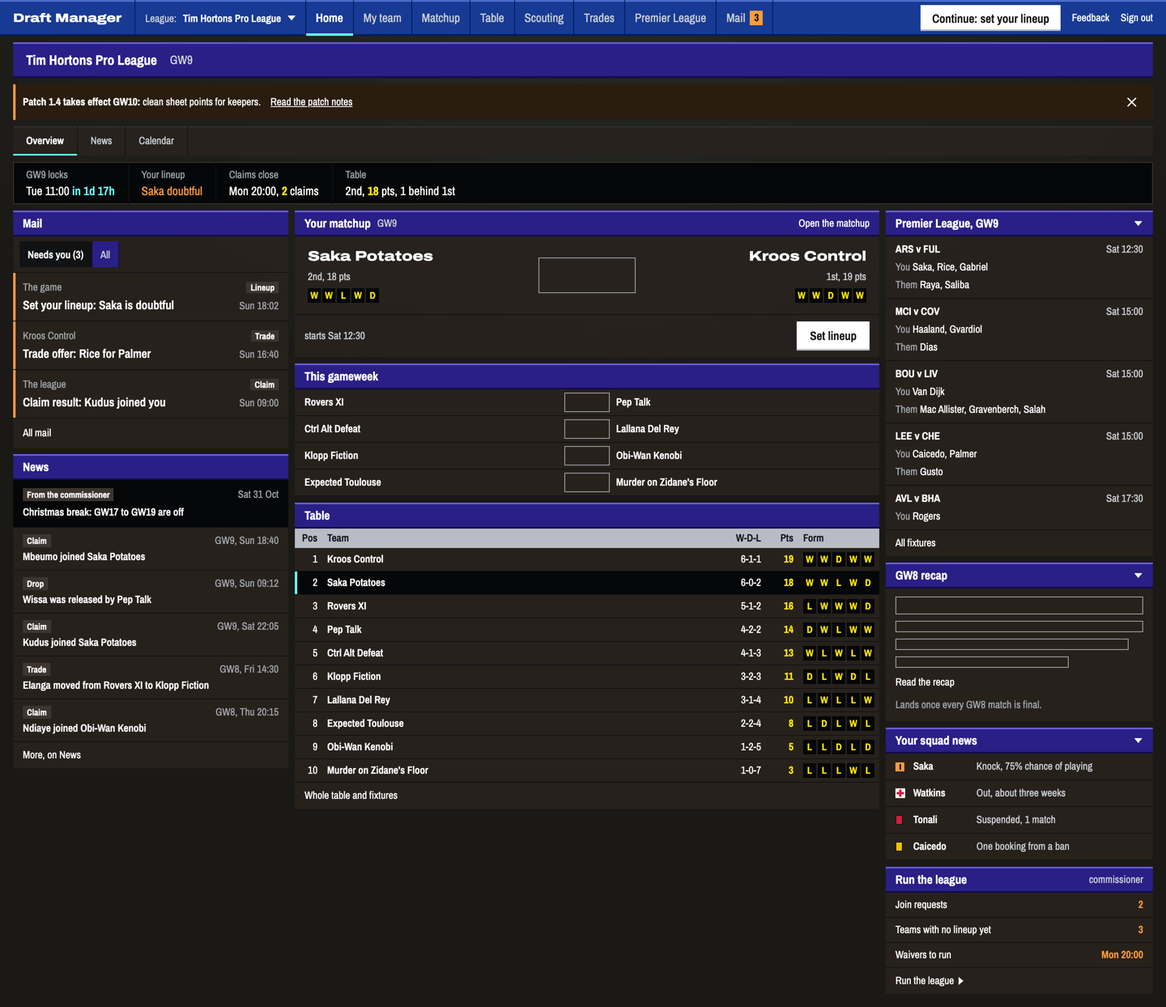
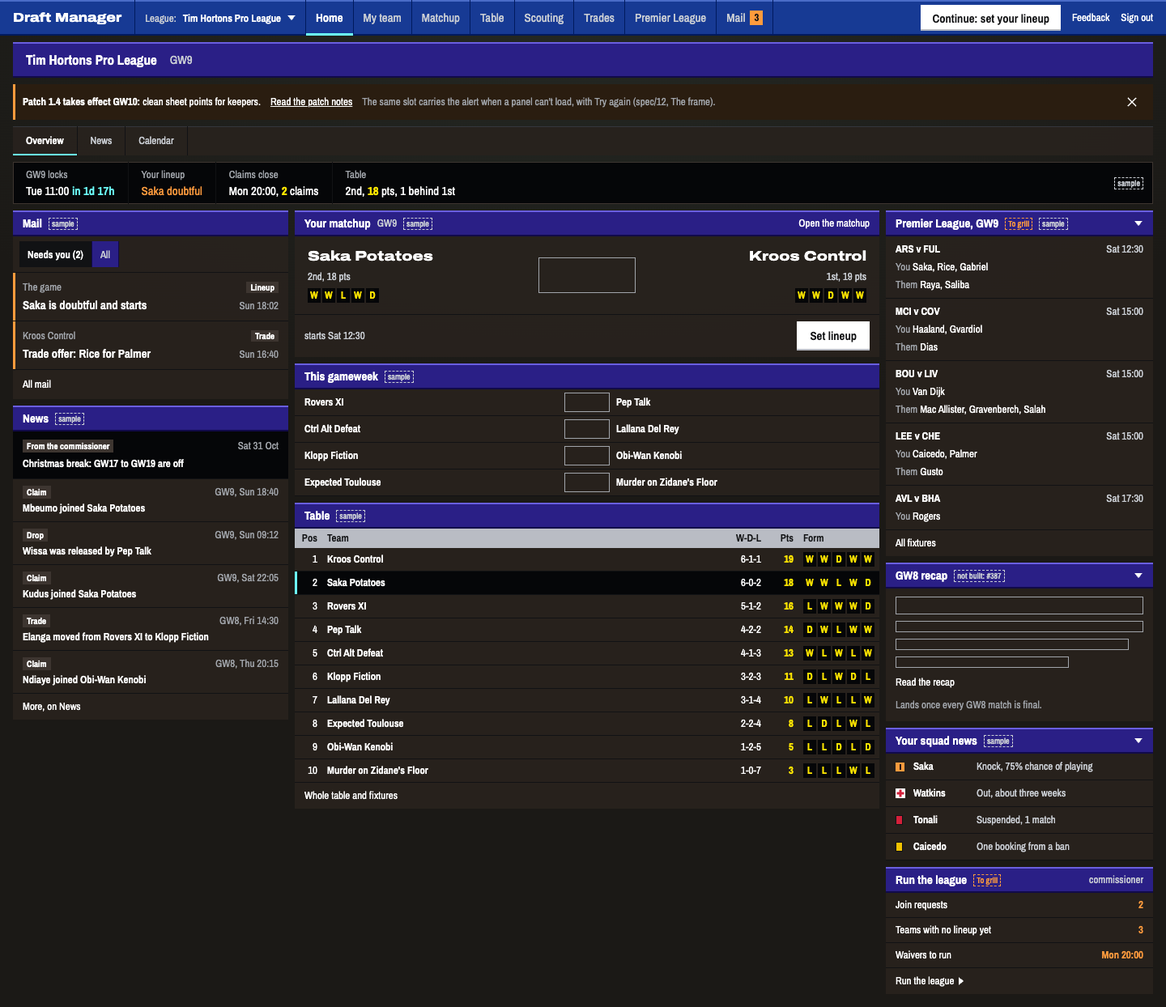
docs: Home's picture opens Mail on Needs you, with a doubtful starter as a letter (#2443)
Craig, 16 Nov 2026, "Go ahead" on the redrawn board. spec/12 S12.15 and
spec/16 S16.7 take his answers on #2443.

diff --git a/docs/design/approved/home/SP1-HomeE.dc.html b/docs/design/approved/home/SP1-HomeE.dc.html
@@ -1,0 +1,48 @@
+<!doctype html>
+<html lang="en">
+<head>
+<meta charset="utf-8">
+<title>League home E</title>
+<script src="./support.js"></script>
+</head>
+<body>
+<x-dc>
+<helmet>
+<link rel="stylesheet" href="https://fonts.googleapis.com/css2?family=Archivo+Narrow:wght@400;600;700&family=Archivo:wdth,wght@125,800&display=swap">
+<style>
+body{margin:0;background:#1b1916}
+a{color:#ffffff;text-decoration:none}a:hover{text-decoration:underline;text-decoration-color:#6bfdfa}
+button{font-family:inherit;border-radius:0;cursor:pointer}
+button:focus-visible,a:focus-visible,input:focus-visible{outline:2px solid #6bfdfa;outline-offset:2px}
+.disp{font-family:'Archivo','Archivo Narrow',sans-serif;font-weight:800;font-stretch:125%}
+.lnk{background:none;border:0;padding:0;color:#ffffff;font-size:13px;line-height:20px;text-align:left}
+.tag{display:inline-block;padding:0 3px;font-size:10px;line-height:13px;font-weight:600;border:1px dashed currentColor}
+.sq td{height:28px;padding:0 6px;white-space:nowrap;overflow:hidden;text-overflow:ellipsis}
+.sq th{height:24px;padding:0 6px;text-align:left;font-weight:600;color:#111214;background:#b9bcc4;white-space:nowrap}
+.box{height:36px;box-sizing:border-box;padding:0 8px;background:#050608;color:#ffffff;border:1px solid #caced4;box-shadow:inset 0 2px 0 #050608;font-family:inherit;font-size:15px}
+.act{height:36px;padding:0 16px;background:#ffffff;color:#111214;border:0;box-shadow:inset 0 2px 0 #ffffff,inset 0 -2px 0 #b9bcc4;font-size:15px;font-weight:600;display:inline-flex;align-items:center;gap:8px}
+.sec{height:32px;padding:0 12px;background:#2a1f86;color:#ffffff;border:1px solid #caced4;font-size:13px;display:inline-flex;align-items:center;gap:6px}
+</style>
+</helmet>
+<div style="min-height: 1200px; background-color: #1b1916; background-image: radial-gradient(ellipse 90% 60% at 50% 0%, rgba(70, 96, 84, 0.22), rgba(70, 96, 84, 0) 70%); font-family: 'Archivo Narrow', 'Arial Narrow', sans-serif; font-size: 13px; line-height: 20px; color: #ffffff; font-variant-numeric: tabular-nums">
+<header style="background: #173a94; box-shadow: inset 0 2px 0 #4a6cc8, inset 0 -2px 0 #001a5e; display: flex; flex-wrap: wrap; align-items: stretch; min-height: 44px; padding: 0 16px">
+  <div class="disp" style="display: flex; align-items: center; font-size: 15px; padding-right: 16px">Draft Manager</div>
+  <button style="display: flex; align-items: center; gap: 8px; background: none; border: 0; border-left: 1px solid #001a5e; border-right: 1px solid #001a5e; color: #ffffff; font-size: 13px; padding: 0 12px"><span style="color: #caced4">League:</span><span style="font-weight: 600">Tim Hortons Pro League</span><svg width="10" height="6" viewBox="0 0 10 6" aria-hidden="true"><path d="M0 0 L10 0 L5 6 Z" fill="#ffffff"></path></svg></button>
+  <nav aria-label="Main" style="display: flex; align-items: stretch"><a href="#" aria-current="page" style="display: flex; align-items: center; padding: 0 12px; color: #ffffff; font-weight: 600; box-shadow: inset 0 -3px 0 #6bfdfa; border-right: 1px solid #001a5e; font-size: 15px">Home</a><a href="#" style="display: flex; align-items: center; padding: 0 12px; color: #caced4; border-right: 1px solid #001a5e; font-size: 15px">My team</a><a href="#" style="display: flex; align-items: center; padding: 0 12px; color: #caced4; border-right: 1px solid #001a5e; font-size: 15px">Matchup</a><a href="#" style="display: flex; align-items: center; padding: 0 12px; color: #caced4; border-right: 1px solid #001a5e; font-size: 15px">Table</a><a href="#" style="display: flex; align-items: center; padding: 0 12px; color: #caced4; border-right: 1px solid #001a5e; font-size: 15px">Scouting</a><a href="#" style="display: flex; align-items: center; padding: 0 12px; color: #caced4; border-right: 1px solid #001a5e; font-size: 15px">Trades</a><a href="#" style="display: flex; align-items: center; padding: 0 12px; color: #caced4; border-right: 1px solid #001a5e; font-size: 15px">Premier League</a><a href="#" style="display: flex; align-items: center; gap: 6px; padding: 0 12px; color: #caced4; border-right: 1px solid #001a5e; font-size: 15px">Mail <span style="background: #ff9b3d; color: #111214; font-size: 13px; font-weight: 700; padding: 0 5px; line-height: 18px">3</span></a></nav>
+  <div style="margin-left: auto; display: flex; align-items: center; gap: 14px">
+    <button aria-label="Continue: set your lineup" style="height: 32px; padding: 0 14px; background: #ffffff; color: #111214; border: 0; box-shadow: inset 0 2px 0 #ffffff, inset 0 -2px 0 #b9bcc4; font-size: 15px; font-weight: 600">Continue: set your lineup</button>
+    <a href="#">Feedback</a>
+    <button class="lnk">Sign out</button>
+  </div>
+</header><main style="max-width: 1440px; margin: 0 auto; padding: 8px 16px 16px; box-sizing: border-box; display: flex; flex-direction: column; gap: 8px"><div style="background: #2a1f86; box-shadow: inset 0 2px 0 #6a5fe0, inset 0 -2px 0 #110a4a; display: flex; align-items: center; gap: 16px; padding: 4px 16px; min-height: 36px"><h1 style="margin: 0; font-size: 17px; line-height: 24px; font-weight: 700">Tim Hortons Pro League</h1><span style="color: #caced4; font-size: 15px">GW9</span></div><div role="status" style="display: flex; align-items: center; gap: 12px; padding: 8px 12px; background: #2a1d10; box-shadow: inset 3px 0 0 #ff9b3d"><span><span style="font-weight: 700">Patch 1.4 takes effect GW10:</span> clean sheet points for keepers.</span><a href="#" style="text-decoration: underline">Read the patch notes</a><sc-if value="{{ tags }}" hint-placeholder-val="{{ true }}"><span style="color: #a1a5ab">The same slot carries the alert when a panel can't load, with Try again (spec/12, The frame).</span></sc-if><button aria-label="Dismiss" style="margin-left: auto; width: 28px; height: 28px; background: none; border: 0; display: flex; align-items: center; justify-content: center"><svg width="12" height="12" viewBox="0 0 14 14" aria-hidden="true"><path d="M1 1 L13 13 M13 1 L1 13" stroke="#ffffff" stroke-width="2"></path></svg></button></div><div style="background: rgba(40, 34, 29, 0.9); box-shadow: inset 0 1px 0 #34363c"><nav aria-label="Section" style="display: flex; height: 36px"><a href="#" aria-current="page" style="display: flex; align-items: center; padding: 0 16px; font-weight: 600; box-shadow: inset 0 -2px 0 #6bfdfa; border-right: 1px solid #111214">Overview</a><a href="#"  style="display: flex; align-items: center; padding: 0 16px; color: #caced4; border-right: 1px solid #111214">News</a><a href="#"  style="display: flex; align-items: center; padding: 0 16px; color: #caced4; border-right: 1px solid #111214">Calendar</a></nav></div><div role="region" aria-label="This gameweek" style="display: flex; align-items: stretch; background: #050608; box-shadow: inset 0 0 0 1px #3d3530"><div style="display: flex; flex-direction: column; justify-content: center; padding: 6px 16px; border-right: 1px solid #111214"><span style="color: #a1a5ab">GW9 locks</span><span style="font-size: 15px">Tue 11:00 <span style="color: #6bfdfa; font-weight: 600">in 1d 17h</span></span></div><div style="display: flex; flex-direction: column; justify-content: center; padding: 6px 16px; border-right: 1px solid #111214"><span style="color: #a1a5ab">Your lineup</span><span style="font-size: 15px"><a href="#" style="color: #ff9b3d">Saka doubtful</a></span></div><div style="display: flex; flex-direction: column; justify-content: center; padding: 6px 16px; border-right: 1px solid #111214"><span style="color: #a1a5ab">Claims close</span><span style="font-size: 15px">Mon 20:00, <span style="color: #ffe600; font-weight: 700">2</span> claims</span></div><div style="display: flex; flex-direction: column; justify-content: center; padding: 6px 16px; border-right: 0"><span style="color: #a1a5ab">Table</span><span style="font-size: 15px">2nd, <span style="color: #ffe600; font-weight: 700">18</span> pts, 1 behind 1st</span></div><span style="margin-left: auto; display: flex; align-items: center; padding: 0 12px"><sc-if value="{{ tags }}" hint-placeholder-val="{{ true }}"><span class="tag" style="color: #caced4;">sample</span></sc-if></span></div><div style="display: grid; grid-template-columns: 340px minmax(0, 1fr) 330px; gap: 8px; align-items: start"><div style="min-width: 0; display: flex; flex-direction: column; gap: 8px"><section style="background: rgba(40, 34, 29, 0.9); display: flex; flex-direction: column"><div style="min-height: 32px; background: #2a1f86; box-shadow: inset 0 2px 0 #6a5fe0, inset 0 -2px 0 #110a4a; display: flex; align-items: center; gap: 8px; padding: 0 12px"><h2 style="margin: 0; font-size: 15px; font-weight: 700">Mail</h2><sc-if value="{{ tags }}" hint-placeholder-val="{{ true }}"><span class="tag" style="color: #caced4;">sample</span></sc-if></div><div role="tablist" style="display: flex; padding: 6px 8px; border-bottom: 1px solid #111214"><button role="tab" aria-selected="true" style="height: 32px; padding: 0 10px; border: 0; border-right: 1px solid #110a4a; font-size: 13px; background: #111214; color: #ffffff; font-weight: 600">Needs you (2)</button><button role="tab" aria-selected="false" style="height: 32px; padding: 0 10px; border: 0; border-right: 1px solid #110a4a; font-size: 13px; background: #2a1f86; color: #caced4; font-weight: 400">All</button></div><a href="#" style="display: flex; flex-direction: column; gap: 2px; padding: 8px 12px; border-bottom: 1px solid #111214; box-shadow: inset 3px 0 0 #ff9b3d"><span style="display: flex; align-items: center; gap: 8px"><span style="color: #a1a5ab">The game</span><span style="margin-left: auto"><span style="flex: none; padding: 0 5px; font-size: 11px; line-height: 16px; font-weight: 700; background: #3d3530; color: #ffffff">Lineup</span></span></span><span style="display: flex; align-items: baseline; gap: 8px"><span style="font-size: 15px; font-weight: 600">Saka is doubtful and starts</span><span style="margin-left: auto; color: #a1a5ab; flex: none">Sun 18:02</span></span></a><a href="#" style="display: flex; flex-direction: column; gap: 2px; padding: 8px 12px; border-bottom: 1px solid #111214; box-shadow: inset 3px 0 0 #ff9b3d"><span style="display: flex; align-items: center; gap: 8px"><span style="color: #a1a5ab">Kroos Control</span><span style="margin-left: auto"><span style="flex: none; padding: 0 5px; font-size: 11px; line-height: 16px; font-weight: 700; background: #3d3530; color: #ffffff">Trade</span></span></span><span style="display: flex; align-items: baseline; gap: 8px"><span style="font-size: 15px; font-weight: 600">Trade offer: Rice for Palmer</span><span style="margin-left: auto; color: #a1a5ab; flex: none">Sun 16:40</span></span></a><div style="padding: 8px 12px"><a href="#">All mail</a></div></section><section style="background: rgba(40, 34, 29, 0.9); display: flex; flex-direction: column"><div style="min-height: 32px; background: #2a1f86; box-shadow: inset 0 2px 0 #6a5fe0, inset 0 -2px 0 #110a4a; display: flex; align-items: center; gap: 8px; padding: 0 12px"><h2  style="margin: 0; font-size: 15px; line-height: 20px; font-weight: 700">News</h2><sc-if value="{{ tags }}" hint-placeholder-val="{{ true }}"><span class="tag" style="color: #caced4;">sample</span></sc-if></div><a href="#" style="display: flex; flex-direction: column; gap: 2px; padding: 8px 12px; border-bottom: 1px solid #111214; background: #050608"><span style="display: flex; gap: 8px; align-items: center"><span style="flex: none; padding: 0 5px; font-size: 11px; line-height: 16px; font-weight: 700; background: #3d3530; color: #ffffff">From the commissioner</span><span style="margin-left: auto; color: #a1a5ab">Sat 31 Oct</span></span><span style="font-weight: 600">Christmas break: GW17 to GW19 are off</span></a><div style="display: flex; flex-direction: column; padding: 6px 12px; border-bottom: 1px solid #111214"><span style="display: flex; gap: 8px; align-items: center"><span style="flex: none; padding: 0 5px; font-size: 11px; line-height: 16px; font-weight: 700; background: #3d3530; color: #ffffff">Claim</span><span style="margin-left: auto; color: #a1a5ab">GW9, Sun 18:40</span></span><span style="font-weight: 600">Mbeumo joined Saka Potatoes</span></div><div style="display: flex; flex-direction: column; padding: 6px 12px; border-bottom: 1px solid #111214"><span style="display: flex; gap: 8px; align-items: center"><span style="flex: none; padding: 0 5px; font-size: 11px; line-height: 16px; font-weight: 700; background: #3d3530; color: #ffffff">Drop</span><span style="margin-left: auto; color: #a1a5ab">GW9, Sun 09:12</span></span><span style="font-weight: 600">Wissa was released by Pep Talk</span></div><div style="display: flex; flex-direction: column; padding: 6px 12px; border-bottom: 1px solid #111214"><span style="display: flex; gap: 8px; align-items: center"><span style="flex: none; padding: 0 5px; font-size: 11px; line-height: 16px; font-weight: 700; background: #3d3530; color: #ffffff">Claim</span><span style="margin-left: auto; color: #a1a5ab">GW9, Sat 22:05</span></span><span style="font-weight: 600">Kudus joined Saka Potatoes</span></div><div style="display: flex; flex-direction: column; padding: 6px 12px; border-bottom: 1px solid #111214"><span style="display: flex; gap: 8px; align-items: center"><span style="flex: none; padding: 0 5px; font-size: 11px; line-height: 16px; font-weight: 700; background: #3d3530; color: #ffffff">Trade</span><span style="margin-left: auto; color: #a1a5ab">GW8, Fri 14:30</span></span><span style="font-weight: 600">Elanga moved from Rovers XI to Klopp Fiction</span></div><div style="display: flex; flex-direction: column; padding: 6px 12px; border-bottom: 1px solid #111214"><span style="display: flex; gap: 8px; align-items: center"><span style="flex: none; padding: 0 5px; font-size: 11px; line-height: 16px; font-weight: 700; background: #3d3530; color: #ffffff">Claim</span><span style="margin-left: auto; color: #a1a5ab">GW8, Thu 20:15</span></span><span style="font-weight: 600">Ndiaye joined Obi-Wan Kenobi</span></div><div style="padding: 6px 12px"><a href="#">More, on News</a></div></section></div><div style="min-width: 0; display: flex; flex-direction: column; gap: 8px"><section style="background: rgba(40, 34, 29, 0.9); display: flex; flex-direction: column;"><div style="min-height: 32px; background: #2a1f86; box-shadow: inset 0 2px 0 #6a5fe0, inset 0 -2px 0 #110a4a; display: flex; align-items: center; gap: 8px; padding: 0 12px"><h2  style="margin: 0; font-size: 15px; line-height: 20px; font-weight: 700">Your matchup</h2><span style="color: #caced4">GW9</span><sc-if value="{{ tags }}" hint-placeholder-val="{{ true }}"><span class="tag" style="color: #caced4;">sample</span></sc-if><a href="#" style="margin-left: auto">Open the matchup</a></div><div style="display: grid; grid-template-columns: minmax(0, 1fr) 120px minmax(0, 1fr); gap: 16px; align-items: center; padding: 14px 16px"><div style="display: flex; flex-direction: column; gap: 4px; align-items: flex-start"><a href="#" class="disp" style="font-size: 17px; line-height: 22px">Saka Potatoes</a><span style="color: #caced4">2nd, 18 pts</span><span style="display: flex; gap: 2px"><span style="width: 16px; height: 18px; text-align: center; background: #050608; color: #ffe600; font-weight: 700; font-size: 12px; line-height: 18px">W</span><span style="width: 16px; height: 18px; text-align: center; background: #050608; color: #ffe600; font-weight: 700; font-size: 12px; line-height: 18px">W</span><span style="width: 16px; height: 18px; text-align: center; background: #050608; color: #ffe600; font-weight: 700; font-size: 12px; line-height: 18px">L</span><span style="width: 16px; height: 18px; text-align: center; background: #050608; color: #ffe600; font-weight: 700; font-size: 12px; line-height: 18px">W</span><span style="width: 16px; height: 18px; text-align: center; background: #050608; color: #ffe600; font-weight: 700; font-size: 12px; line-height: 18px">D</span></span></div><span role="img" aria-label="Score: not started" style="width: 120px; height: 44px; box-sizing: border-box; border: 1px solid #a1a5ab"></span><div style="display: flex; flex-direction: column; gap: 4px; align-items: flex-end"><a href="#" class="disp" style="font-size: 17px; line-height: 22px">Kroos Control</a><span style="color: #caced4">1st, 19 pts</span><span style="display: flex; gap: 2px"><span style="width: 16px; height: 18px; text-align: center; background: #050608; color: #ffe600; font-weight: 700; font-size: 12px; line-height: 18px">W</span><span style="width: 16px; height: 18px; text-align: center; background: #050608; color: #ffe600; font-weight: 700; font-size: 12px; line-height: 18px">W</span><span style="width: 16px; height: 18px; text-align: center; background: #050608; color: #ffe600; font-weight: 700; font-size: 12px; line-height: 18px">D</span><span style="width: 16px; height: 18px; text-align: center; background: #050608; color: #ffe600; font-weight: 700; font-size: 12px; line-height: 18px">W</span><span style="width: 16px; height: 18px; text-align: center; background: #050608; color: #ffe600; font-weight: 700; font-size: 12px; line-height: 18px">W</span></span></div></div><div style="display: flex; align-items: center; gap: 12px; padding: 8px 12px; border-top: 1px solid #111214"><span style="color: #caced4">starts Sat 12:30</span><a href="#" class="act" style="margin-left: auto">Set lineup</a></div></section><section style="background: rgba(40, 34, 29, 0.9); display: flex; flex-direction: column;"><div style="min-height: 32px; background: #2a1f86; box-shadow: inset 0 2px 0 #6a5fe0, inset 0 -2px 0 #110a4a; display: flex; align-items: center; gap: 8px; padding: 0 12px"><h2  style="margin: 0; font-size: 15px; line-height: 20px; font-weight: 700">This gameweek</h2><sc-if value="{{ tags }}" hint-placeholder-val="{{ true }}"><span class="tag" style="color: #caced4;">sample</span></sc-if></div><ul style="list-style: none; margin: 0; padding: 0"><li><a href="#" style="display: grid; grid-template-columns: minmax(0, 1fr) 56px minmax(0, 1fr); gap: 8px; align-items: center; min-height: 32px; padding: 0 12px; border-bottom: 1px solid #111214"><span style="font-weight: 600">Rovers XI</span><span role="img" aria-label="Not started" style="width: 56px; height: 24px; box-sizing: border-box; border: 1px solid #a1a5ab"></span><span style="font-weight: 600">Pep Talk</span></a></li><li><a href="#" style="display: grid; grid-template-columns: minmax(0, 1fr) 56px minmax(0, 1fr); gap: 8px; align-items: center; min-height: 32px; padding: 0 12px; border-bottom: 1px solid #111214"><span style="font-weight: 600">Ctrl Alt Defeat</span><span role="img" aria-label="Not started" style="width: 56px; height: 24px; box-sizing: border-box; border: 1px solid #a1a5ab"></span><span style="font-weight: 600">Lallana Del Rey</span></a></li><li><a href="#" style="display: grid; grid-template-columns: minmax(0, 1fr) 56px minmax(0, 1fr); gap: 8px; align-items: center; min-height: 32px; padding: 0 12px; border-bottom: 1px solid #111214"><span style="font-weight: 600">Klopp Fiction</span><span role="img" aria-label="Not started" style="width: 56px; height: 24px; box-sizing: border-box; border: 1px solid #a1a5ab"></span><span style="font-weight: 600">Obi-Wan Kenobi</span></a></li><li><a href="#" style="display: grid; grid-template-columns: minmax(0, 1fr) 56px minmax(0, 1fr); gap: 8px; align-items: center; min-height: 32px; padding: 0 12px; border-bottom: 1px solid #111214"><span style="font-weight: 600">Expected Toulouse</span><span role="img" aria-label="Not started" style="width: 56px; height: 24px; box-sizing: border-box; border: 1px solid #a1a5ab"></span><span style="font-weight: 600">Murder on Zidane's Floor</span></a></li></ul></section><section style="background: rgba(40, 34, 29, 0.9); display: flex; flex-direction: column;"><div style="min-height: 32px; background: #2a1f86; box-shadow: inset 0 2px 0 #6a5fe0, inset 0 -2px 0 #110a4a; display: flex; align-items: center; gap: 8px; padding: 0 12px"><h2  style="margin: 0; font-size: 15px; line-height: 20px; font-weight: 700">Table</h2><sc-if value="{{ tags }}" hint-placeholder-val="{{ true }}"><span class="tag" style="color: #caced4;">sample</span></sc-if></div><table class="sq" style="width: 100%; border-collapse: collapse; table-layout: fixed"><colgroup><col style="width: 34px"><col><col style="width: 60px"><col style="width: 40px"><col style="width: 100px"></colgroup><thead><tr><th style="text-align: right">Pos</th><th>Team</th><th style="text-align: right">W-D-L</th><th style="text-align: right">Pts</th><th>Form</th></tr></thead><tbody><tr style="border-bottom: 1px solid #111214; box-shadow: none; background: transparent"><td style="text-align: right">1</td><td><a href="#" style="font-weight: 600">Kroos Control</a></td><td style="text-align: right">6-1-1</td><td style="text-align: right; color: #ffe600; font-weight: 700">19</td><td><span style="display: flex; gap: 2px"><span style="width: 16px; height: 18px; text-align: center; background: #050608; color: #ffe600; font-weight: 700; font-size: 12px; line-height: 18px">W</span><span style="width: 16px; height: 18px; text-align: center; background: #050608; color: #ffe600; font-weight: 700; font-size: 12px; line-height: 18px">W</span><span style="width: 16px; height: 18px; text-align: center; background: #050608; color: #ffe600; font-weight: 700; font-size: 12px; line-height: 18px">D</span><span style="width: 16px; height: 18px; text-align: center; background: #050608; color: #ffe600; font-weight: 700; font-size: 12px; line-height: 18px">W</span><span style="width: 16px; height: 18px; text-align: center; background: #050608; color: #ffe600; font-weight: 700; font-size: 12px; line-height: 18px">W</span></span></td></tr><tr style="border-bottom: 1px solid #111214; box-shadow: inset 3px 0 0 #6bfdfa; background: #050608"><td style="text-align: right">2</td><td><a href="#" style="font-weight: 600">Saka Potatoes</a></td><td style="text-align: right">6-0-2</td><td style="text-align: right; color: #ffe600; font-weight: 700">18</td><td><span style="display: flex; gap: 2px"><span style="width: 16px; height: 18px; text-align: center; background: #050608; color: #ffe600; font-weight: 700; font-size: 12px; line-height: 18px">W</span><span style="width: 16px; height: 18px; text-align: center; background: #050608; color: #ffe600; font-weight: 700; font-size: 12px; line-height: 18px">W</span><span style="width: 16px; height: 18px; text-align: center; background: #050608; color: #ffe600; font-weight: 700; font-size: 12px; line-height: 18px">L</span><span style="width: 16px; height: 18px; text-align: center; background: #050608; color: #ffe600; font-weight: 700; font-size: 12px; line-height: 18px">W</span><span style="width: 16px; height: 18px; text-align: center; background: #050608; color: #ffe600; font-weight: 700; font-size: 12px; line-height: 18px">D</span></span></td></tr><tr style="border-bottom: 1px solid #111214; box-shadow: none; background: transparent"><td style="text-align: right">3</td><td><a href="#" style="font-weight: 600">Rovers XI</a></td><td style="text-align: right">5-1-2</td><td style="text-align: right; color: #ffe600; font-weight: 700">16</td><td><span style="display: flex; gap: 2px"><span style="width: 16px; height: 18px; text-align: center; background: #050608; color: #ffe600; font-weight: 700; font-size: 12px; line-height: 18px">L</span><span style="width: 16px; height: 18px; text-align: center; background: #050608; color: #ffe600; font-weight: 700; font-size: 12px; line-height: 18px">W</span><span style="width: 16px; height: 18px; text-align: center; background: #050608; color: #ffe600; font-weight: 700; font-size: 12px; line-height: 18px">W</span><span style="width: 16px; height: 18px; text-align: center; background: #050608; color: #ffe600; font-weight: 700; font-size: 12px; line-height: 18px">W</span><span style="width: 16px; height: 18px; text-align: center; background: #050608; color: #ffe600; font-weight: 700; font-size: 12px; line-height: 18px">D</span></span></td></tr><tr style="border-bottom: 1px solid #111214; box-shadow: none; background: transparent"><td style="text-align: right">4</td><td><a href="#" style="font-weight: 600">Pep Talk</a></td><td style="text-align: right">4-2-2</td><td style="text-align: right; color: #ffe600; font-weight: 700">14</td><td><span style="display: flex; gap: 2px"><span style="width: 16px; height: 18px; text-align: center; background: #050608; color: #ffe600; font-weight: 700; font-size: 12px; line-height: 18px">D</span><span style="width: 16px; height: 18px; text-align: center; background: #050608; color: #ffe600; font-weight: 700; font-size: 12px; line-height: 18px">W</span><span style="width: 16px; height: 18px; text-align: center; background: #050608; color: #ffe600; font-weight: 700; font-size: 12px; line-height: 18px">L</span><span style="width: 16px; height: 18px; text-align: center; background: #050608; color: #ffe600; font-weight: 700; font-size: 12px; line-height: 18px">W</span><span style="width: 16px; height: 18px; text-align: center; background: #050608; color: #ffe600; font-weight: 700; font-size: 12px; line-height: 18px">W</span></span></td></tr><tr style="border-bottom: 1px solid #111214; box-shadow: none; background: transparent"><td style="text-align: right">5</td><td><a href="#" style="font-weight: 600">Ctrl Alt Defeat</a></td><td style="text-align: right">4-1-3</td><td style="text-align: right; color: #ffe600; font-weight: 700">13</td><td><span style="display: flex; gap: 2px"><span style="width: 16px; height: 18px; text-align: center; background: #050608; color: #ffe600; font-weight: 700; font-size: 12px; line-height: 18px">W</span><span style="width: 16px; height: 18px; text-align: center; background: #050608; color: #ffe600; font-weight: 700; font-size: 12px; line-height: 18px">L</span><span style="width: 16px; height: 18px; text-align: center; background: #050608; color: #ffe600; font-weight: 700; font-size: 12px; line-height: 18px">W</span><span style="width: 16px; height: 18px; text-align: center; background: #050608; color: #ffe600; font-weight: 700; font-size: 12px; line-height: 18px">L</span><span style="width: 16px; height: 18px; text-align: center; background: #050608; color: #ffe600; font-weight: 700; font-size: 12px; line-height: 18px">W</span></span></td></tr><tr style="border-bottom: 1px solid #111214; box-shadow: none; background: transparent"><td style="text-align: right">6</td><td><a href="#" style="font-weight: 600">Klopp Fiction</a></td><td style="text-align: right">3-2-3</td><td style="text-align: right; color: #ffe600; font-weight: 700">11</td><td><span style="display: flex; gap: 2px"><span style="width: 16px; height: 18px; text-align: center; background: #050608; color: #ffe600; font-weight: 700; font-size: 12px; line-height: 18px">D</span><span style="width: 16px; height: 18px; text-align: center; background: #050608; color: #ffe600; font-weight: 700; font-size: 12px; line-height: 18px">L</span><span style="width: 16px; height: 18px; text-align: center; background: #050608; color: #ffe600; font-weight: 700; font-size: 12px; line-height: 18px">W</span><span style="width: 16px; height: 18px; text-align: center; background: #050608; color: #ffe600; font-weight: 700; font-size: 12px; line-height: 18px">D</span><span style="width: 16px; height: 18px; text-align: center; background: #050608; color: #ffe600; font-weight: 700; font-size: 12px; line-height: 18px">L</span></span></td></tr><tr style="border-bottom: 1px solid #111214; box-shadow: none; background: transparent"><td style="text-align: right">7</td><td><a href="#" style="font-weight: 600">Lallana Del Rey</a></td><td style="text-align: right">3-1-4</td><td style="text-align: right; color: #ffe600; font-weight: 700">10</td><td><span style="display: flex; gap: 2px"><span style="width: 16px; height: 18px; text-align: center; background: #050608; color: #ffe600; font-weight: 700; font-size: 12px; line-height: 18px">L</span><span style="width: 16px; height: 18px; text-align: center; background: #050608; color: #ffe600; font-weight: 700; font-size: 12px; line-height: 18px">W</span><span style="width: 16px; height: 18px; text-align: center; background: #050608; color: #ffe600; font-weight: 700; font-size: 12px; line-height: 18px">L</span><span style="width: 16px; height: 18px; text-align: center; background: #050608; color: #ffe600; font-weight: 700; font-size: 12px; line-height: 18px">L</span><span style="width: 16px; height: 18px; text-align: center; background: #050608; color: #ffe600; font-weight: 700; font-size: 12px; line-height: 18px">W</span></span></td></tr><tr style="border-bottom: 1px solid #111214; box-shadow: none; background: transparent"><td style="text-align: right">8</td><td><a href="#" style="font-weight: 600">Expected Toulouse</a></td><td style="text-align: right">2-2-4</td><td style="text-align: right; color: #ffe600; font-weight: 700">8</td><td><span style="display: flex; gap: 2px"><span style="width: 16px; height: 18px; text-align: center; background: #050608; color: #ffe600; font-weight: 700; font-size: 12px; line-height: 18px">L</span><span style="width: 16px; height: 18px; text-align: center; background: #050608; color: #ffe600; font-weight: 700; font-size: 12px; line-height: 18px">D</span><span style="width: 16px; height: 18px; text-align: center; background: #050608; color: #ffe600; font-weight: 700; font-size: 12px; line-height: 18px">L</span><span style="width: 16px; height: 18px; text-align: center; background: #050608; color: #ffe600; font-weight: 700; font-size: 12px; line-height: 18px">W</span><span style="width: 16px; height: 18px; text-align: center; background: #050608; color: #ffe600; font-weight: 700; font-size: 12px; line-height: 18px">L</span></span></td></tr><tr style="border-bottom: 1px solid #111214; box-shadow: none; background: transparent"><td style="text-align: right">9</td><td><a href="#" style="font-weight: 600">Obi-Wan Kenobi</a></td><td style="text-align: right">1-2-5</td><td style="text-align: right; color: #ffe600; font-weight: 700">5</td><td><span style="display: flex; gap: 2px"><span style="width: 16px; height: 18px; text-align: center; background: #050608; color: #ffe600; font-weight: 700; font-size: 12px; line-height: 18px">L</span><span style="width: 16px; height: 18px; text-align: center; background: #050608; color: #ffe600; font-weight: 700; font-size: 12px; line-height: 18px">L</span><span style="width: 16px; height: 18px; text-align: center; background: #050608; color: #ffe600; font-weight: 700; font-size: 12px; line-height: 18px">D</span><span style="width: 16px; height: 18px; text-align: center; background: #050608; color: #ffe600; font-weight: 700; font-size: 12px; line-height: 18px">L</span><span style="width: 16px; height: 18px; text-align: center; background: #050608; color: #ffe600; font-weight: 700; font-size: 12px; line-height: 18px">D</span></span></td></tr><tr style="border-bottom: 1px solid #111214; box-shadow: none; background: transparent"><td style="text-align: right">10</td><td><a href="#" style="font-weight: 600">Murder on Zidane's Floor</a></td><td style="text-align: right">1-0-7</td><td style="text-align: right; color: #ffe600; font-weight: 700">3</td><td><span style="display: flex; gap: 2px"><span style="width: 16px; height: 18px; text-align: center; background: #050608; color: #ffe600; font-weight: 700; font-size: 12px; line-height: 18px">L</span><span style="width: 16px; height: 18px; text-align: center; background: #050608; color: #ffe600; font-weight: 700; font-size: 12px; line-height: 18px">L</span><span style="width: 16px; height: 18px; text-align: center; background: #050608; color: #ffe600; font-weight: 700; font-size: 12px; line-height: 18px">L</span><span style="width: 16px; height: 18px; text-align: center; background: #050608; color: #ffe600; font-weight: 700; font-size: 12px; line-height: 18px">W</span><span style="width: 16px; height: 18px; text-align: center; background: #050608; color: #ffe600; font-weight: 700; font-size: 12px; line-height: 18px">L</span></span></td></tr></tbody></table><div style="padding: 6px 12px"><a href="#">Whole table and fixtures</a></div></section></div><div style="min-width: 0; display: flex; flex-direction: column; gap: 8px"><section style="background: rgba(40, 34, 29, 0.9); display: flex; flex-direction: column"><div style="min-height: 32px; background: #2a1f86; box-shadow: inset 0 2px 0 #6a5fe0, inset 0 -2px 0 #110a4a; display: flex; align-items: center; gap: 8px; padding: 0 4px 0 12px"><h2 style="margin: 0; font-size: 15px; line-height: 20px; font-weight: 700">Premier League, GW9</h2><sc-if value="{{ tags }}" hint-placeholder-val="{{ true }}"><span class="tag" style="color: #ff9b3d;">To grill</span></sc-if><sc-if value="{{ tags }}" hint-placeholder-val="{{ true }}"><span class="tag" style="color: #caced4;">sample</span></sc-if><button aria-label="Collapse" aria-expanded="true" style="margin-left: auto; width: 28px; height: 28px; background: none; border: 0; display: flex; align-items: center; justify-content: center"><svg width="10" height="6" viewBox="0 0 10 6" aria-hidden="true"><path d="M0 0 L10 0 L5 6 Z" fill="#ffffff"></path></svg></button></div><ul style="list-style: none; margin: 0; padding: 0"><li><a href="#" style="display: flex; flex-direction: column; gap: 2px; padding: 6px 12px; border-bottom: 1px solid #111214"><span style="display: flex; align-items: baseline; gap: 8px"><span style="font-weight: 700">ARS v FUL</span><span style="margin-left: auto"><span style="color: #caced4">Sat 12:30</span></span></span><span><span style="color: #a1a5ab">You</span> Saka, Rice, Gabriel</span><span><span style="color: #a1a5ab">Them</span> Raya, Saliba</span></a></li><li><a href="#" style="display: flex; flex-direction: column; gap: 2px; padding: 6px 12px; border-bottom: 1px solid #111214"><span style="display: flex; align-items: baseline; gap: 8px"><span style="font-weight: 700">MCI v COV</span><span style="margin-left: auto"><span style="color: #caced4">Sat 15:00</span></span></span><span><span style="color: #a1a5ab">You</span> Haaland, Gvardiol</span><span><span style="color: #a1a5ab">Them</span> Dias</span></a></li><li><a href="#" style="display: flex; flex-direction: column; gap: 2px; padding: 6px 12px; border-bottom: 1px solid #111214"><span style="display: flex; align-items: baseline; gap: 8px"><span style="font-weight: 700">BOU v LIV</span><span style="margin-left: auto"><span style="color: #caced4">Sat 15:00</span></span></span><span><span style="color: #a1a5ab">You</span> Van Dijk</span><span><span style="color: #a1a5ab">Them</span> Mac Allister, Gravenberch, Salah</span></a></li><li><a href="#" style="display: flex; flex-direction: column; gap: 2px; padding: 6px 12px; border-bottom: 1px solid #111214"><span style="display: flex; align-items: baseline; gap: 8px"><span style="font-weight: 700">LEE v CHE</span><span style="margin-left: auto"><span style="color: #caced4">Sat 15:00</span></span></span><span><span style="color: #a1a5ab">You</span> Caicedo, Palmer</span><span><span style="color: #a1a5ab">Them</span> Gusto</span></a></li><li><a href="#" style="display: flex; flex-direction: column; gap: 2px; padding: 6px 12px; border-bottom: 1px solid #111214"><span style="display: flex; align-items: baseline; gap: 8px"><span style="font-weight: 700">AVL v BHA</span><span style="margin-left: auto"><span style="color: #caced4">Sat 17:30</span></span></span><span><span style="color: #a1a5ab">You</span> Rogers</span></a></li></ul><div style="padding: 6px 12px"><a href="#">All fixtures</a></div></section><section style="background: rgba(40, 34, 29, 0.9); display: flex; flex-direction: column"><div style="min-height: 32px; background: #2a1f86; box-shadow: inset 0 2px 0 #6a5fe0, inset 0 -2px 0 #110a4a; display: flex; align-items: center; gap: 8px; padding: 0 4px 0 12px"><h2 style="margin: 0; font-size: 15px; line-height: 20px; font-weight: 700">GW8 recap</h2><sc-if value="{{ tags }}" hint-placeholder-val="{{ true }}"><span class="tag" style="color: #caced4;">not built: #387</span></sc-if><button aria-label="Collapse" aria-expanded="true" style="margin-left: auto; width: 28px; height: 28px; background: none; border: 0; display: flex; align-items: center; justify-content: center"><svg width="10" height="6" viewBox="0 0 10 6" aria-hidden="true"><path d="M0 0 L10 0 L5 6 Z" fill="#ffffff"></path></svg></button></div><div style="padding: 10px 12px; display: flex; flex-direction: column; gap: 8px"><span role="img" aria-label="GW8 recap headline: not built yet (#387)" style="display: block; height: 22px; box-sizing: border-box; border: 1px solid #a1a5ab"></span><span aria-hidden="true" style="display: block; width: 100%; height: 14px; box-sizing: border-box; border: 1px solid #a1a5ab"></span><span aria-hidden="true" style="display: block; width: 94%; height: 14px; box-sizing: border-box; border: 1px solid #a1a5ab"></span><span aria-hidden="true" style="display: block; width: 70%; height: 14px; box-sizing: border-box; border: 1px solid #a1a5ab"></span><a href="#">Read the recap</a><span style="color: #a1a5ab">Lands once every GW8 match is final.</span></div></section><section style="background: rgba(40, 34, 29, 0.9); display: flex; flex-direction: column"><div style="min-height: 32px; background: #2a1f86; box-shadow: inset 0 2px 0 #6a5fe0, inset 0 -2px 0 #110a4a; display: flex; align-items: center; gap: 8px; padding: 0 4px 0 12px"><h2 style="margin: 0; font-size: 15px; line-height: 20px; font-weight: 700">Your squad news</h2><sc-if value="{{ tags }}" hint-placeholder-val="{{ true }}"><span class="tag" style="color: #caced4;">sample</span></sc-if><button aria-label="Collapse" aria-expanded="true" style="margin-left: auto; width: 28px; height: 28px; background: none; border: 0; display: flex; align-items: center; justify-content: center"><svg width="10" height="6" viewBox="0 0 10 6" aria-hidden="true"><path d="M0 0 L10 0 L5 6 Z" fill="#ffffff"></path></svg></button></div><a href="#" style="display: grid; grid-template-columns: 14px 70px minmax(0, 1fr); gap: 8px; align-items: center; min-height: 32px; padding: 0 12px; border-bottom: 1px solid #111214"><span role="img" aria-label="Doubt" style="width: 11px; height: 11px; background: #ff9b3d; display: flex; align-items: center; justify-content: center"><span style="width: 2px; height: 7px; background: #111214"></span></span><span style="font-weight: 600">Saka</span><span style="color: #caced4">Knock, 75% chance of playing</span></a><a href="#" style="display: grid; grid-template-columns: 14px 70px minmax(0, 1fr); gap: 8px; align-items: center; min-height: 32px; padding: 0 12px; border-bottom: 1px solid #111214"><svg role="img" aria-label="Injured" width="12" height="12" viewBox="0 0 12 12"><rect width="12" height="12" fill="#ffffff"></rect><path d="M4.5 1.5 H7.5 V4.5 H10.5 V7.5 H7.5 V10.5 H4.5 V7.5 H1.5 V4.5 H4.5 Z" fill="#d4203a"></path></svg><span style="font-weight: 600">Watkins</span><span style="color: #caced4">Out, about three weeks</span></a><a href="#" style="display: grid; grid-template-columns: 14px 70px minmax(0, 1fr); gap: 8px; align-items: center; min-height: 32px; padding: 0 12px; border-bottom: 1px solid #111214"><svg role="img" aria-label="Suspended" width="9" height="12" viewBox="0 0 9 12"><rect x="0.5" y="0.5" width="8" height="11" fill="#d4203a" stroke="#111214"></rect></svg><span style="font-weight: 600">Tonali</span><span style="color: #caced4">Suspended, 1 match</span></a><a href="#" style="display: grid; grid-template-columns: 14px 70px minmax(0, 1fr); gap: 8px; align-items: center; min-height: 32px; padding: 0 12px; border-bottom: 1px solid #111214"><svg role="img" aria-label="One booking from a ban" width="9" height="12" viewBox="0 0 9 12"><rect x="0.5" y="0.5" width="8" height="11" fill="#f2c200" stroke="#111214"></rect></svg><span style="font-weight: 600">Caicedo</span><span style="color: #caced4">One booking from a ban</span></a></section><section style="background: rgba(40, 34, 29, 0.9)"><div style="min-height: 32px; background: #2a1f86; box-shadow: inset 0 2px 0 #6a5fe0, inset 0 -2px 0 #110a4a; display: flex; align-items: center; gap: 8px; padding: 0 12px"><h2  style="margin: 0; font-size: 15px; line-height: 20px; font-weight: 700">Run the league</h2><sc-if value="{{ tags }}" hint-placeholder-val="{{ true }}"><span class="tag" style="color: #ff9b3d;">To grill</span></sc-if><span style='margin-left: auto; color: #caced4'>commissioner</span></div><a href="#" style="display: flex; align-items: center; min-height: 30px; padding: 0 12px; border-bottom: 1px solid #111214"><span>Join requests</span><span style="margin-left: auto; color: #ff9b3d; font-weight: 600">2</span></a><a href="#" style="display: flex; align-items: center; min-height: 30px; padding: 0 12px; border-bottom: 1px solid #111214"><span>Teams with no lineup yet</span><span style="margin-left: auto; color: #ff9b3d; font-weight: 600">3</span></a><a href="#" style="display: flex; align-items: center; min-height: 30px; padding: 0 12px; border-bottom: 1px solid #111214"><span>Waivers to run</span><span style="margin-left: auto; color: #ff9b3d; font-weight: 600">Mon 20:00</span></a><a href="#" style="display: flex; align-items: center; gap: 6px; min-height: 32px; padding: 0 12px">Run the league<svg width="6" height="10" viewBox="0 0 6 10" aria-hidden="true"><path d="M0 0 L6 5 L0 10 Z" fill="#ffffff"></path></svg></a></section></div></div></main>
+</div>
+</x-dc>
+<script type="text/x-dc" data-dc-script data-props='{"tags":{"editor":"boolean","default":true},"$preview":{"width":1440,"height":1200}}'>
+class Component extends DCLogic {
+  renderVals() {
+    return { tags: this.props.tags ?? true };
+  }
+}
+</script>
+</body>
+</html>

diff --git a/docs/design/approved/home/README.md b/docs/design/approved/home/README.md
@@ -11,7 +11,8 @@ Route: `/home`, the Overview tab, checked on `/home?preview=manager`, and on
 
 - `1440.png`: the main board in a gameweek before its deadline, Overview open (Home E). Its
   layout binds: where each panel sits. What a placeholder panel holds (below) binds only once its
-  grill settles it.
+  grill settles it. Redrawn 16 Nov 2026 with Mail top left, opening on Needs you; its source is
+  `SP1-HomeE.dc.html`.
 
 The plan for later, each grilled when its feature is built. These show where each state's panels
 go; they don't bind until that grill settles what they hold:
@@ -37,6 +38,11 @@ go; they don't bind until that grill settles what they hold:
 - that Table stays in the top menu.
 
 With it: "ditch team of the week", so Team of the Week is off Home (`spec/12`, League home).
+
+16 Nov 2026, Craig, "Go ahead", on the main board redrawn for #2443 (what needs a manager this
+week): no new panel; Mail moves to the top of the left column, under the deadline strip, and
+opens on Needs you; a doubtful or out starter is a Needs you letter ("Saka is doubtful and
+starts"), opening Tactics; claims waiting stay in the strip (`spec/12` S12.15, `spec/16` S16.7).
 
 ## The News tab
 
@@ -69,8 +75,9 @@ colours.
 - Overview | News | Calendar: Home's own tabs. Overview and News are drawn; Calendar is not.
 - The patch banner's Read the patch notes: opens Patch notes. The cross hides the banner.
 - The deadline strip: reads only; none of its boxes opens anything (`spec/12` S12.10).
-- Mail's Needs you | All: switches the panel between letters waiting on him and every letter. A
-  letter opens it in Mail; All mail opens Mail.
+- Mail's Needs you | All: opens on Needs you; switches the panel between letters waiting on him
+  and every letter. A letter opens it in Mail, except a doubtful or out starter's, which opens
+  Tactics; All mail opens Mail.
 - News: More, on News opens the News tab. The commissioner's latest letter stays pinned on top
   (`spec/12`).
 - Your matchup: Open the matchup and the score open the matchup; Set lineup opens the Tactics tab.
@@ -91,7 +98,7 @@ Each shows in its place and size until its data comes.
 |---|---|---|
 | The Calendar tab | what it holds | to-grill: Home's tabs |
 | The deadline strip in the other states (after, locked, break, pre-season) | which boxes each state shows; the gameweek before its deadline is wired (`spec/12` S12.9, S12.10; #1976) | to-grill: The deadline strip |
-| Mail's Needs you tab | settled 9 Nov 2026: a lineup to set, a trade offer to you, a trade to review (`spec/16`); the panel gains Unread as Mail has | #1030 |
+| Mail's Needs you tab | settled 9 Nov 2026: a lineup to set, a trade offer to you, a trade to review (`spec/16`), and 16 Nov a doubtful or out starter (S16.7); the panel gains Unread as Mail has | #1030 |
 | Premier League, GW9: live scores in matchday mode | the matches with your players and your opponent's, with kickoff times, are wired (`spec/12` S12.12; #1976) | to-grill: The Premier League on Home |
 | Your squad news's chips | the notes, FPL's word for word, are wired, with no chip (`spec/12` S12.8; #1976); which statuses each chip reads | to-grill: Status chips' data |
 | Run the league | what its to-do list holds | to-grill: Run the league |

diff --git a/spec/12-screens.md b/spec/12-screens.md
@@ -81,6 +81,11 @@ homage, simple, in CM's blue, with a top menu. The canvas with every round is
       matches with kickoff times, under each your players ("You") and your opponent's ("Them"),
       only the matches where one of the two of you has a player; All fixtures opens the Premier
       League. `S12.12`
+  - Craig, 16 Nov 2026, on #2443, how Home shows what needs a manager: no new panel. The
+    deadline strip and Mail's Needs you are the to-do: Mail's panel sits at the top of the left
+    column, under the strip, and opens on Needs you. Nothing more says what happens if he does
+    nothing: the strip's Your lineup box keeps "Saka doubtful". Claims waiting stay in the
+    strip's Claims box, never a Needs you letter. `S12.15`
 - **My team** shows the tactics pitch, the squad and Mail side by side.
   - The Tactics tab's squad list, beside the pitch as on FM's tactics screen: each row opens
     with the slot's position label (`spec/06`) in its area's colour, then the role's full name, the player,

diff --git a/spec/16-mail.md b/spec/16-mail.md
@@ -31,5 +31,8 @@ letters, newest first. It reports; it never advises.
 - Needs you: the letters waiting on you are a lineup to set, a trade offer to you and, for the
   commissioner, a trade to review; Mail and Home's Mail panel both split All | Needs you | Unread
   (Craig, 9 Nov 2026). `S16.3`
+- A starter flagged doubtful or out (`spec/12` S12.9) is a Needs you letter too, such as "Saka is
+  doubtful and starts", opening Tactics; claims waiting are not (Craig, 16 Nov 2026, on #2443).
+  `S16.7`
 - The deadline letter says how your lineup stands, such as "Lineup set, 1 doubt in your eleven"
   (Craig, 9 Nov 2026: "Yes, show it"). `S16.4`
